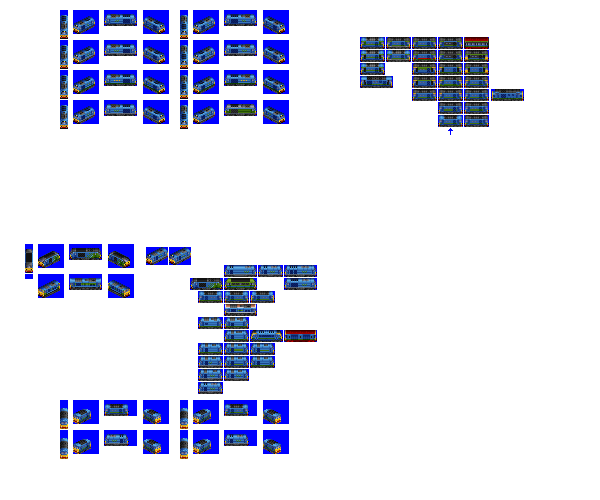
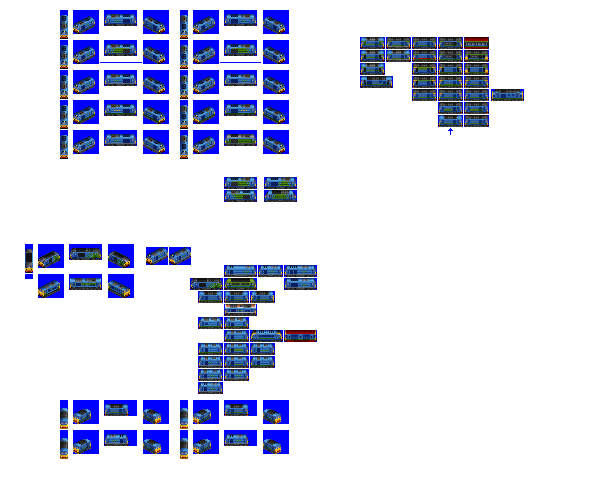
Change: WIP on additional livery for Shredder

Changed region(s): [[0.09, 0.21, 0.51, 0.42], [0.39, 0.09, 0.42, 0.12], [0.18, 0.09, 0.21, 0.12]]

diff --git a/src/vehicles/shredder.py b/src/vehicles/shredder.py
@@ -16,8 +16,8 @@ def main(roster_id):
         fixed_run_cost_points=120,  # give a bonus so this can be a genuine mixed-traffic engine
         gen=5,
         intro_year_offset=7,  # introduce later than gen epoch by design
-        additional_liveries=["SWOOSH", "DB_SCHENKER"],
-        sprites_complete=True,
+        additional_liveries=["SWOOSH", "SWOOSH", "DB_SCHENKER"],
+        sprites_complete=False,
     )
 
     consist.add_unit(
